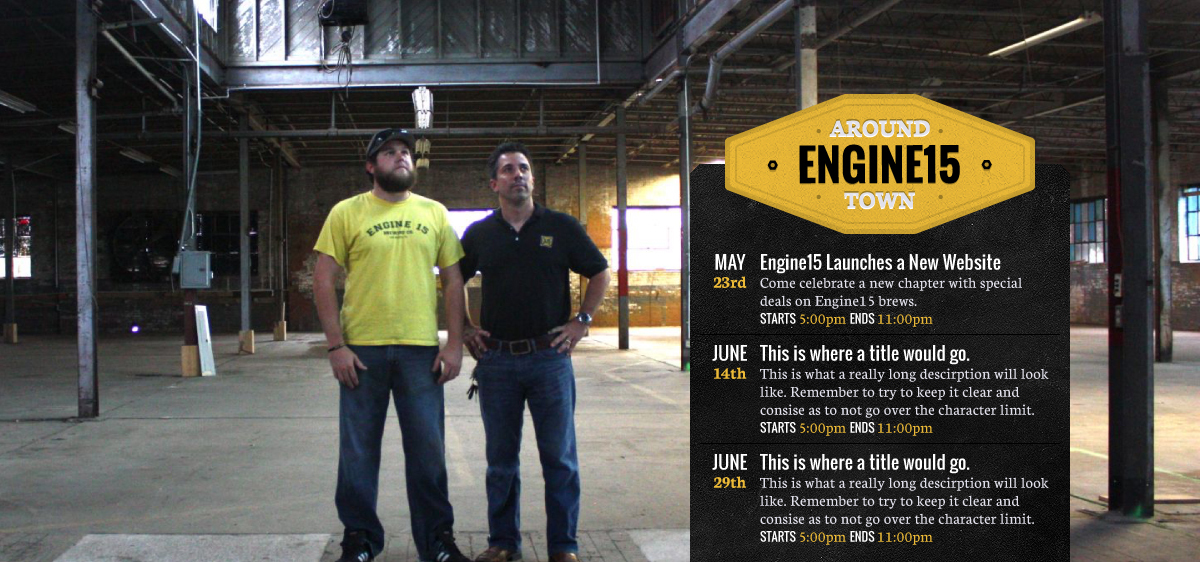
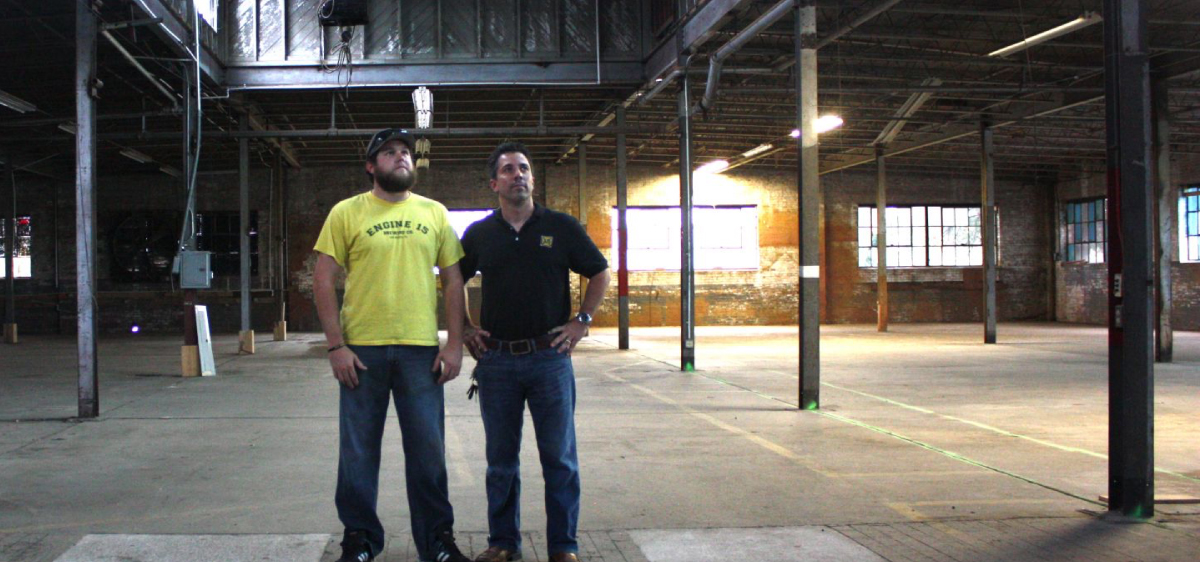
Events Section p1

Changed region(s): [[0.555, 0.1512, 0.8942, 1.0]]

diff --git a/css/styles.css b/css/styles.css
@@ -187,6 +187,27 @@ nav li, nav li a {
     transition: all 0.3s ease;
 }
 
+/* ~~~~~ Main Events ~~~~~ */
+
+.events {
+    bottom: 0;
+    right: 10%;
+    width: 400px;
+    height: 430px;
+    position: absolute;
+    padding-top: 70px;
+}
+.events .logo {
+    top: 0;
+    left: 45px;
+    position: absolute;
+}
+.events .box {
+    width: 100%;
+    height: 100%;
+    background-color: #242424;
+}
+
 /* ~~~~~ Locations ~~~~~ */
 
 .locations  {

diff --git a/index.php b/index.php
@@ -11,8 +11,18 @@
 	
 <?php include($_SERVER['DOCUMENT_ROOT']."/snippets/nav.php"); ?>
     
+<!-- Main Events
+<section class="events"></section> -->
+
 <!-- Slider Placeholder -->
-<section class="cover" style="background-image: url('img/slide-1.jpg');"></section>
+<section class="cover" style="position: relative; background-image: url('img/slide-1.jpg');">
+    <div class="events">
+        <img class="logo" src="/img/events-logo.png" />
+        <div class="box">
+
+        </div>
+    </div>
+</section>
     
 <!-- Locations -->
 <?php include($_SERVER['DOCUMENT_ROOT']."/snippets/locations.php"); ?>
